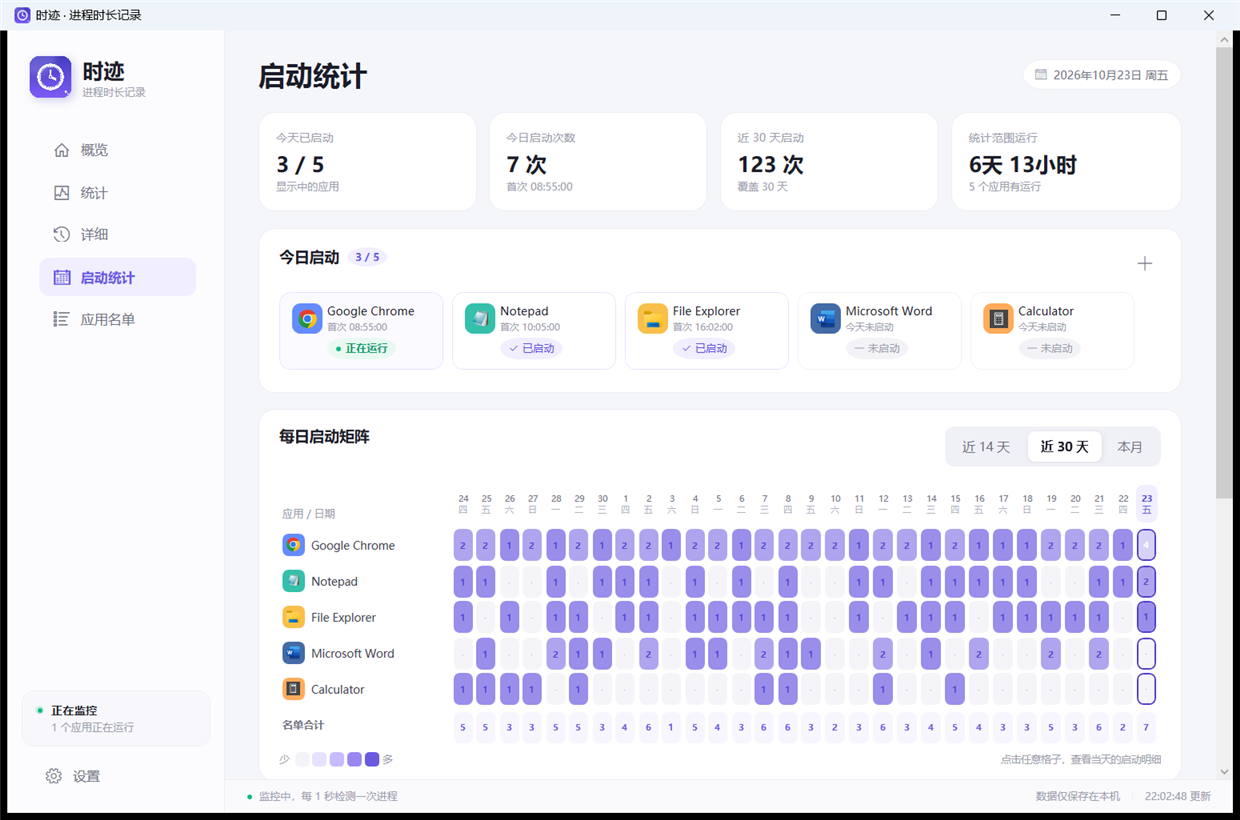
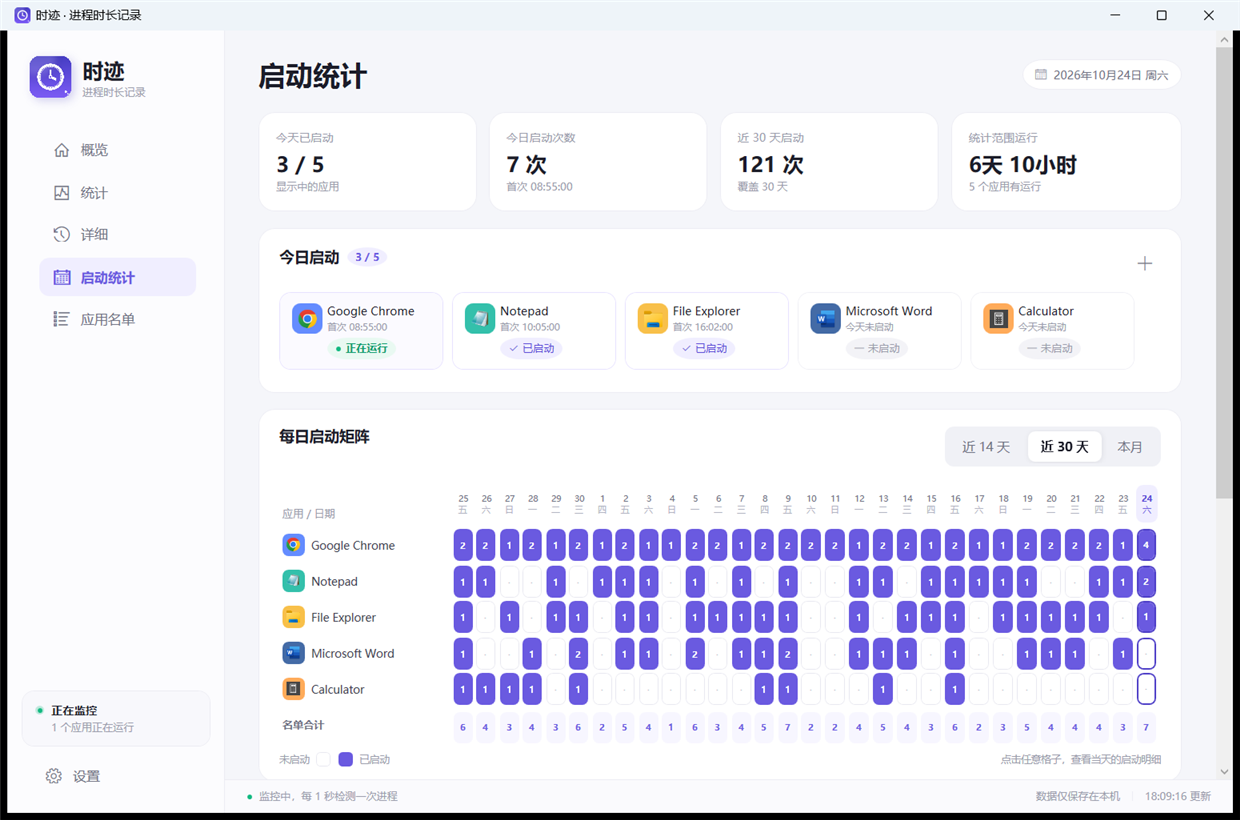
Fix matrix colors, add GitHub link, add Inno Setup installer

diff --git a/Views/CalendarView.xaml b/Views/CalendarView.xaml
@@ -120,13 +120,11 @@
 
                     <Grid Margin="0,9,0,0">
                         <StackPanel Orientation="Horizontal">
-                            <TextBlock Text="少" FontSize="10" Foreground="{StaticResource MutedBrush}" VerticalAlignment="Center" />
-                            <Border Width="14" Height="14" CornerRadius="4" Background="#F3F3F8" Margin="6,0,3,0" />
-                            <Border Width="14" Height="14" CornerRadius="4" Background="#E6E1FF" Margin="0,0,3,0" />
-                            <Border Width="14" Height="14" CornerRadius="4" Background="#C8BBFF" Margin="0,0,3,0" />
-                            <Border Width="14" Height="14" CornerRadius="4" Background="#9B86F2" Margin="0,0,3,0" />
+                            <TextBlock Text="未启动" FontSize="10" Foreground="{StaticResource MutedBrush}" VerticalAlignment="Center" />
+                            <Border Width="14" Height="14" CornerRadius="4" Background="#FFFFFF"
+                                    BorderBrush="#E8E8F0" BorderThickness="1" Margin="6,0,8,0" />
                             <Border Width="14" Height="14" CornerRadius="4" Background="#6A5AE0" />
-                            <TextBlock Text="多" FontSize="10" Foreground="{StaticResource MutedBrush}" Margin="3,0,0,0"
+                            <TextBlock Text="已启动" FontSize="10" Foreground="{StaticResource MutedBrush}" Margin="6,0,0,0"
                                        VerticalAlignment="Center" />
                         </StackPanel>
                         <TextBlock Text="点击任意格子，查看当天的启动明细" FontSize="10" Foreground="{StaticResource MutedBrush}"

diff --git a/Views/SettingsView.xaml b/Views/SettingsView.xaml
@@ -110,8 +110,14 @@
                                        Margin="0,3,0,0" />
                         </StackPanel>
                     </StackPanel>
-                    <Button Content="打开日志" Style="{StaticResource GhostButton}" HorizontalAlignment="Right"
-                            VerticalAlignment="Center" Click="OpenLog_Click" />
+                    <StackPanel Orientation="Horizontal" HorizontalAlignment="Right"
+                                VerticalAlignment="Center">
+                        <Button Content="GitHub 仓库" Style="{StaticResource GhostButton}"
+                                Click="OpenGitHub_Click"
+                                ToolTip="在浏览器中打开 GitHub 仓库" />
+                        <Button Content="打开日志" Style="{StaticResource GhostButton}" Margin="8,0,0,0"
+                                Click="OpenLog_Click" />
+                    </StackPanel>
                 </Grid>
             </Border>
         </StackPanel>

diff --git a/Views/CalendarView.xaml.cs b/Views/CalendarView.xaml.cs
@@ -285,7 +285,6 @@ public partial class CalendarView : UserControl, IRefreshablePage
         }
 
         var lookup = matrix.ToDictionary(c => (c.AppId, c.Day));
-        var maxLaunch = Math.Max(1, matrix.Max(c => c.Launches));
 
         for (var r = 0; r < apps.Count; r++)
         {
@@ -325,11 +324,12 @@ public partial class CalendarView : UserControl, IRefreshablePage
             {
                 lookup.TryGetValue((app.Id, days[d]), out var cell);
                 var launches = cell?.Launches ?? 0;
-                var intensity = LaunchIntensity(launches, maxLaunch);
-                var bg = intensity <= 0
-                    ? ColorUtil.Brush("#F5F5F9")
-                    : ColorUtil.BlendWithWhite("#6A5AE0", 0.84 - intensity * 0.78);
-                var fg = intensity > 0.47 ? Brushes.White : ColorUtil.Brush(intensity > 0 ? "#5A49D6" : "#B6B8C5");
+                var bg = launches > 0
+                    ? ColorUtil.Brush("#6A5AE0")
+                    : Brushes.White;
+                var fg = launches > 0
+                    ? Brushes.White
+                    : ColorUtil.Brush("#B6B8C5");
                 var isSelected = _selectedDay == days[d] &&
                                  (string.IsNullOrEmpty(_selectedAppId) || _selectedAppId == app.Id);
                 var isToday = days[d] == today;
@@ -342,8 +342,9 @@ public partial class CalendarView : UserControl, IRefreshablePage
                     Background = bg,
                     BorderBrush = isSelected
                         ? ColorUtil.Brush("#4E3FC7")
-                        : isToday ? ColorUtil.Brush("#BDB4FF") : Brushes.Transparent,
-                    BorderThickness = new Thickness(isSelected ? 1.6 : isToday ? 1 : 0),
+                        : isToday ? ColorUtil.Brush("#BDB4FF")
+                        : launches > 0 ? Brushes.Transparent : ColorUtil.Brush("#E8E8F0"),
+                    BorderThickness = new Thickness(isSelected ? 1.6 : isToday ? 1 : launches > 0 ? 0 : 1),
                     Cursor = Cursors.Hand,
                     Tag = new CellTag(app.Id, days[d], app.Name),
                     ToolTip = BuildCellTooltip(app, days[d], launches, cell?.FirstLaunch)
@@ -564,16 +565,6 @@ public partial class CalendarView : UserControl, IRefreshablePage
         if (MatrixScroll.IsMouseOver || TodayPanel.IsMouseOver) return;
         if ((DateTime.Now - _lastRefresh).TotalSeconds < 45) return;
         RefreshData();
-    }
-
-    private static double LaunchIntensity(int launches, int max)
-    {
-        if (launches <= 0) return 0;
-        if (launches == 1) return 0.20;
-        if (launches == 2) return 0.38;
-        if (launches == 3) return 0.58;
-        if (launches == 4) return 0.72;
-        return Math.Min(1, 0.78 + 0.22 * Math.Sqrt((double)launches / Math.Max(max, 5)));
     }
 
     private static string BuildCellTooltip(WatchedApp app, DateOnly day, int launches, DateTimeOffset? first)

diff --git a/Views/SettingsView.xaml.cs b/Views/SettingsView.xaml.cs
@@ -160,6 +160,23 @@ public partial class SettingsView : UserControl, IRefreshablePage
         ShowToast($"已清空 {removed} 条历史记录。", ToastKind.Success);
     }
 
+    private void OpenGitHub_Click(object sender, RoutedEventArgs e)
+    {
+        try
+        {
+            System.Diagnostics.Process.Start(new ProcessStartInfo
+            {
+                FileName = "https://github.com/muchengugugu/ShiJi",
+                UseShellExecute = true
+            });
+        }
+        catch (Exception ex)
+        {
+            App.Log(ex);
+            ShowToast("打开 GitHub 失败：" + ex.Message, ToastKind.Error);
+        }
+    }
+
     private void OpenLog_Click(object sender, RoutedEventArgs e)
     {
         try

diff --git a/README.md b/README.md
@@ -20,7 +20,7 @@
 - **应用雷达**：统计页展示所选时间段内使用时长最多的 5 个应用。
 - **删除历史**：详细页每个应用右侧可一键删除该应用的全部历史记录；应用详情里还可以只清空某个月。
 - **今日启动看板**：展示应用名单里“显示”开关打开的应用，显示今天是否启动、首次启动时间、启动次数和今日时长；监控和记录始终继续。
-- **按天启动统计**：14 天 / 30 天 / 本月启动矩阵，只显示启动次数；近 30 天和本月会按可用宽度压缩列宽和行高，窗口变化时自动重排；矩阵和今日启动只展示在应用名单里打开“显示”的应用。
+- **按天启动统计**：14 天 / 30 天 / 本月启动矩阵，只显示启动次数；有启动的格子统一显示紫色，未启动为白色；近 30 天和本月会按可用宽度压缩列宽和行高，窗口变化时自动重排；矩阵和今日启动只展示在应用名单里打开“显示”的应用。
 - **日期边界**：可在设置里选择每天零点或四点作为新的一天；在这个时间之后启动才算新一天，跨边界的运行时长会正确拆分。
 - **重命名**：在应用名单点铅笔、在应用详情点“重命名”，或在启动矩阵的应用名上右键，都可以给程序起一个更短的显示名称。
 - **概览**：今日 / 本周 / 本月总时长、启动次数、最长使用应用、每小时 / 每日运行分布、应用排行。
@@ -43,7 +43,14 @@
 
 ## 下载
 
-在 **[Releases](https://github.com/muchengugugu/ShiJi/releases/latest)** 下载最新的 `ShiJi-win-x64.zip`。源码仓库不提交 `dist/`、`bin/`、`obj/` 和用户数据，下载请走 Releases。
+在 **[Releases](https://github.com/muchengugugu/ShiJi/releases/latest)** 选择一种：
+
+- **安装版**：`ShiJi-1.0.12-win-x64-Setup.exe`  
+  双击安装，默认安装到当前用户目录，不需要管理员权限；会创建开始菜单快捷方式。
+- **便携版**：`ShiJi-1.0.12-win-x64.zip`  
+  解压后双击 `ShiJi.exe`，不写安装信息。
+
+两种方式共用 `%APPDATA%\ShiJi` 里的数据，切换版本不会丢记录。
 
 ## 运行要求
 
@@ -51,6 +58,8 @@
 - [.NET 8 Desktop Runtime](https://dotnet.microsoft.com/download/dotnet/8.0)（如果电脑尚未安装）
 
 发布目录中的 `ShiJi.exe`、`ShiJi.dll`、`ShiJi.deps.json`、`ShiJi.runtimeconfig.json` 需要放在同一文件夹中，双击 `ShiJi.exe` 启动。数据目录与程序目录分离，升级或移动程序不会丢数据。
+
+安装版使用 Inno Setup 构建，脚本在 `installer/ShiJi.iss`。发布新版本时同时生成安装版和便携 ZIP。
 
 ## 使用
 
@@ -162,8 +171,11 @@ ShiJi/
                              以及“从运行中程序添加”“编辑应用”对话框
   Controls/                 自绘堆叠柱状图、应用雷达图
   Styles/                   主题、按钮、开关、下拉框样式
+  installer/                Inno Setup 安装脚本
   docs/                     README 截图
 ```
+
+本项目不包含自动更新；有新版本时重新从 Releases 下载安装版或便携版即可。
 
 ## 说明
 
